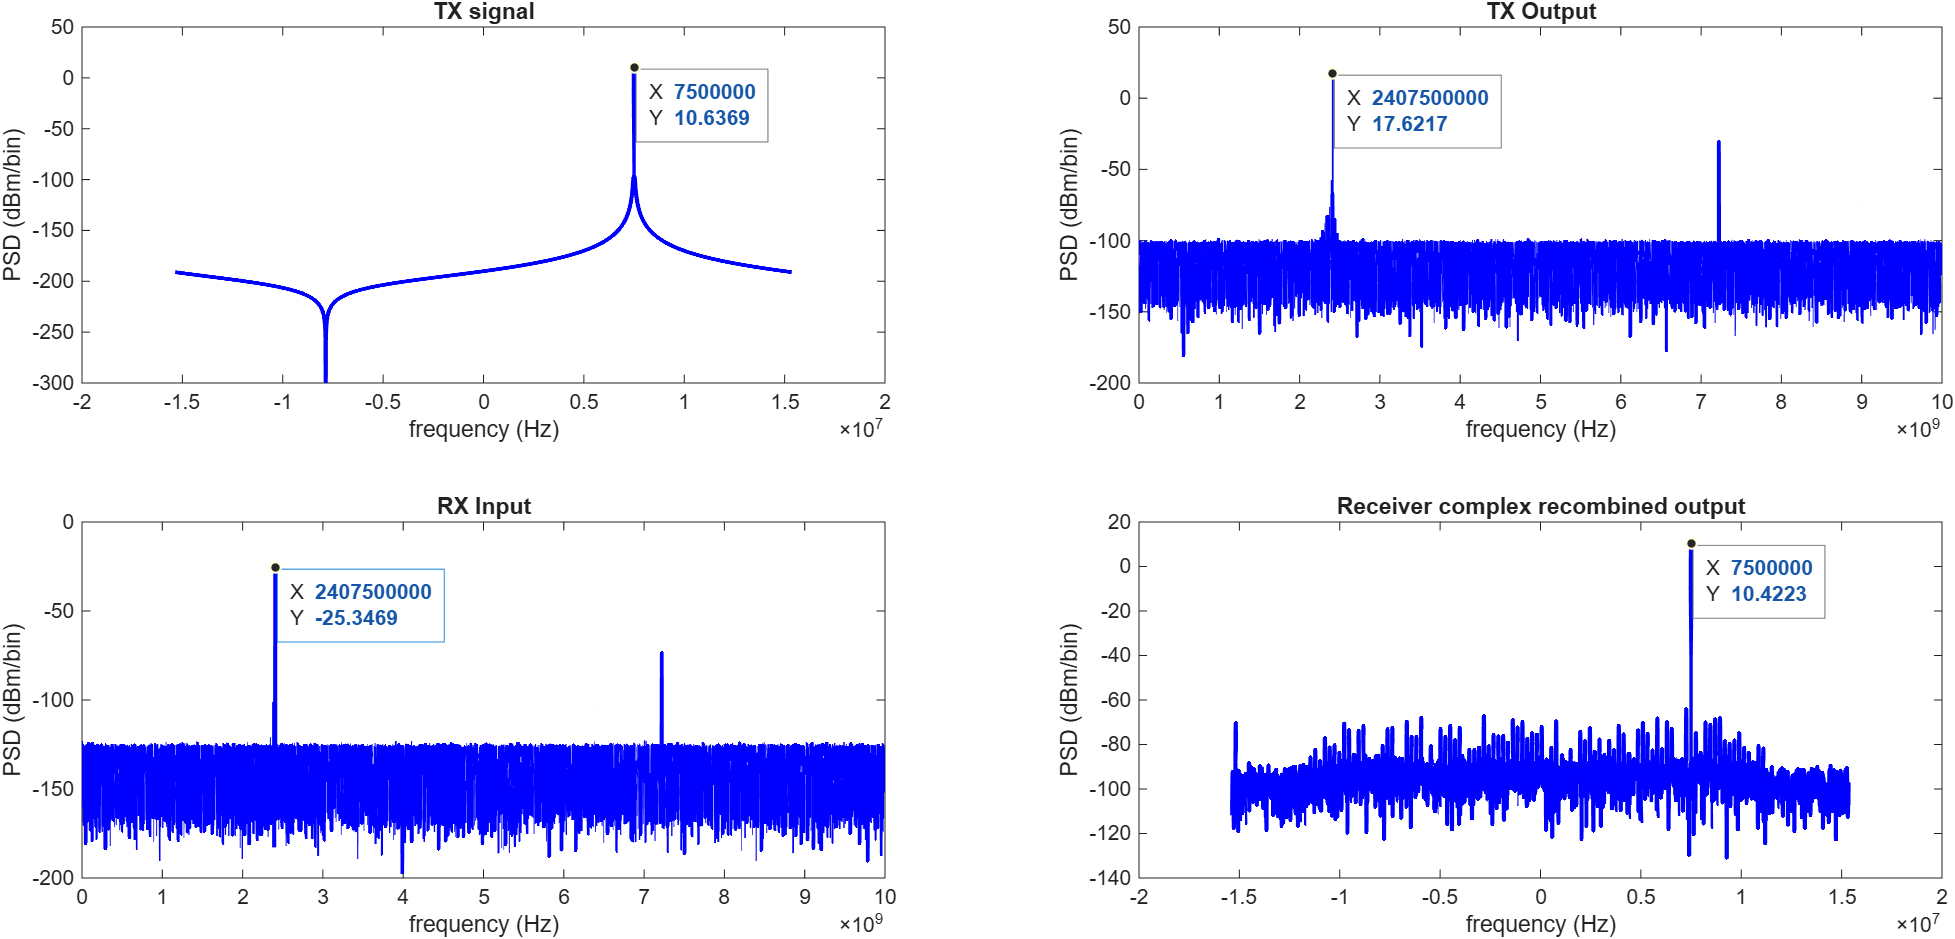
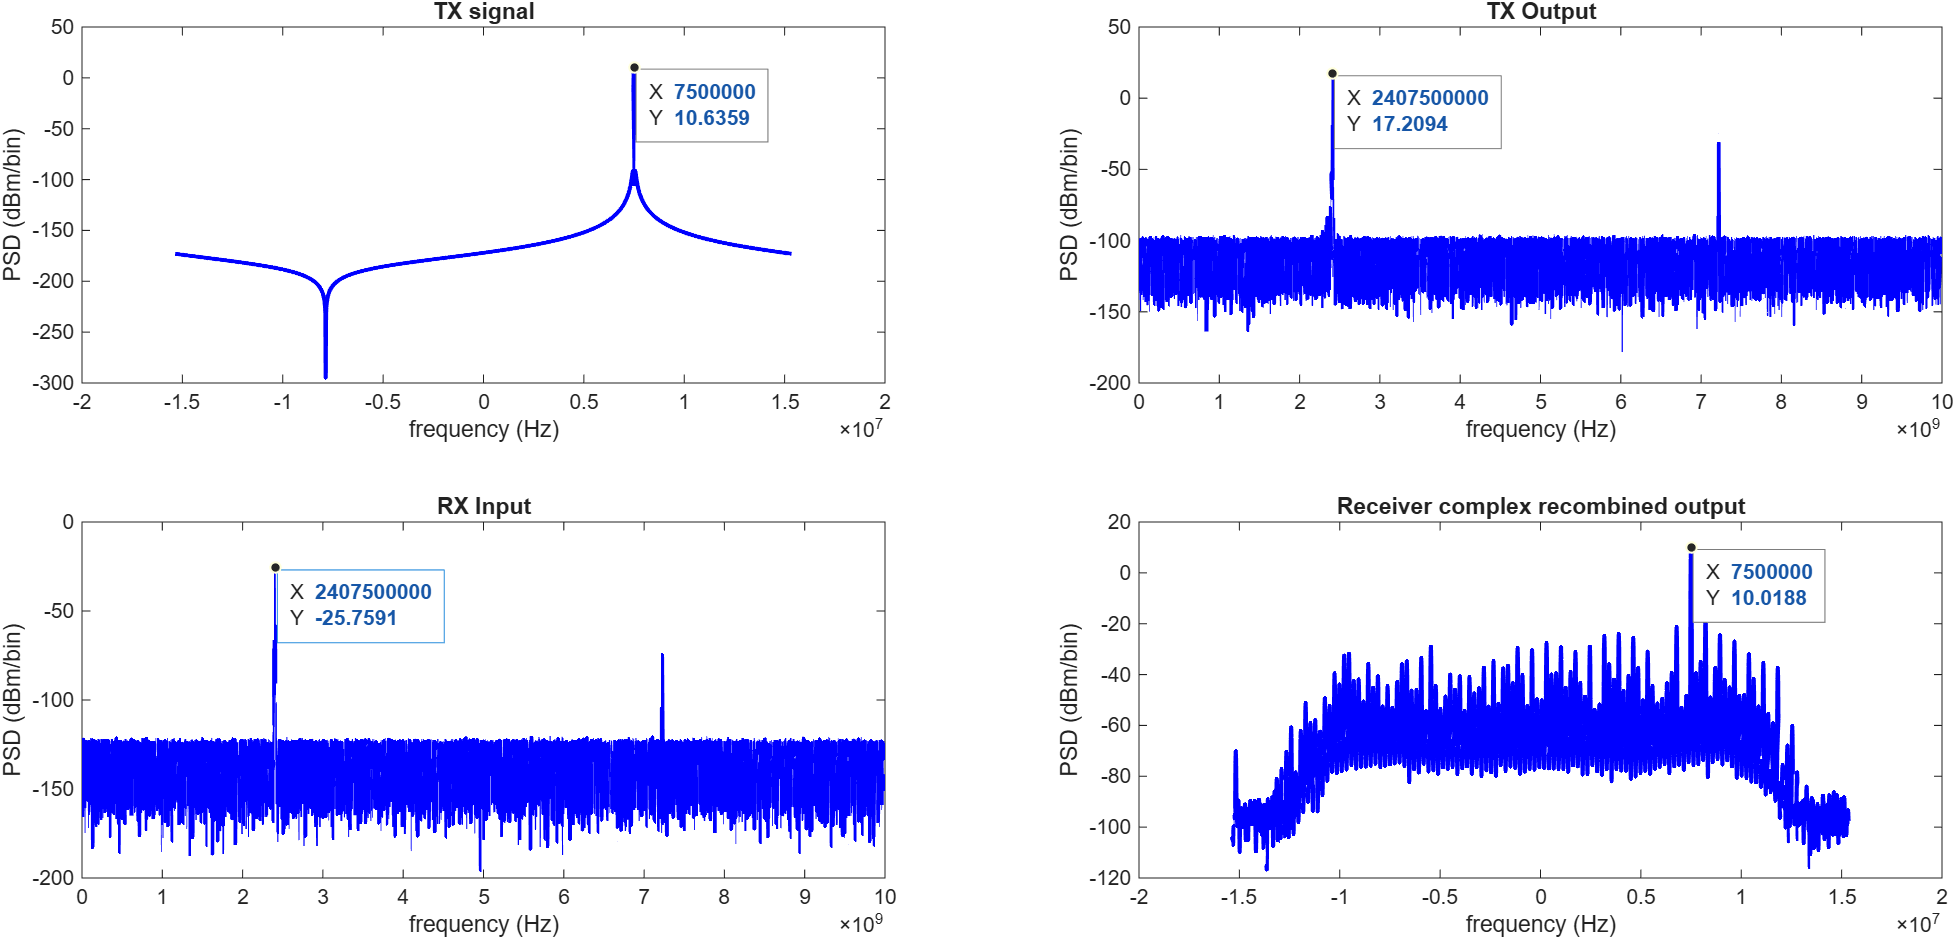
Fixes number of bits of the DAC

diff --git a/src/D2/TxRx_sim_main.m b/src/D2/TxRx_sim_main.m
@@ -11,7 +11,7 @@ signal_config.test_type = 'onetone';
 
 %%% TX Params %%%
 %%%%% DAC %%%%
-tx_config.nBitDAC = 10; % Number of bits of the DAC
+tx_config.nBitDAC = 3; % Number of bits of the DAC
 tx_config.Vref = 1;     % Voltage reference of the DAC
 %%%%% Filter %%%%
 tx_config.TXBB_Filt_rp = 0.5; % Passband ripple in dB

diff --git a/src/D2/TxRx_sim_sweep.m b/src/D2/TxRx_sim_sweep.m
@@ -11,7 +11,7 @@ signal_config.test_type = 'onetone';
 
 %%% TX Params %%%
 %%%%% DAC %%%%
-tx_config.nBitDAC = 10; % Number of bits of the DAC
+tx_config.nBitDAC = 3; % Number of bits of the DAC
 tx_config.Vref = 1;     % Voltage reference of the DAC
 %%%%% Filter %%%%
 tx_config.TXBB_Filt_rp = 0.5; % Passband ripple in dB
